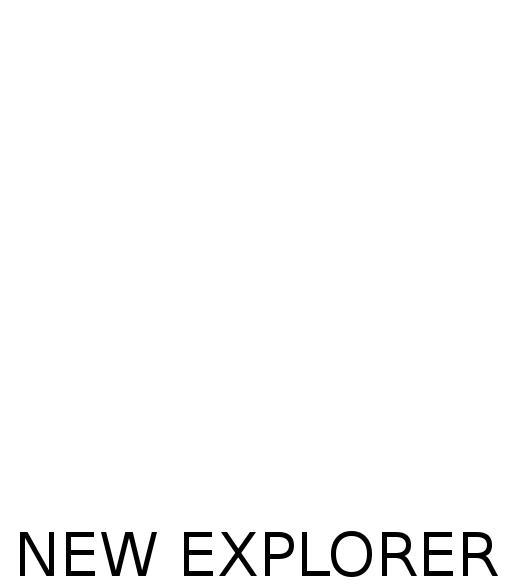
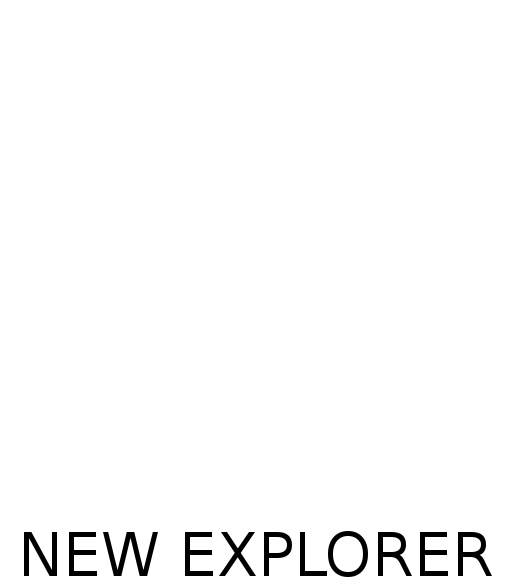
change to order of skins, cleared all owned skins, and added all new title skins

diff --git a/ZendApp/public/js/route/detail.js b/ZendApp/public/js/route/detail.js
@@ -735,7 +735,7 @@ var RecommendationManager = Class.extend({
      *
      * @author Craig Knott
      */
-    init:           function () {
+    init:            function () {
         this.button = $('#recommendSimilar');
         this.idSelected = undefined;
         this.setupListeners();
@@ -745,7 +745,7 @@ var RecommendationManager = Class.extend({
      *
      * @author Craig Knott
      */
-    setupListeners: function () {
+    setupListeners:  function () {
         var _self = this;
 
         this.button.click(function () {
@@ -757,28 +757,28 @@ var RecommendationManager = Class.extend({
                 }
             }).success(function (response) {
                 $.confirm({
-                    title:           'Recommend a Route',
-                    icon:            'fa fa-link',
-                    content:         _self.getPopupContent(JSON.parse(response)),
-                    theme:           'black',
-                    confirmButton:   'Confirm',
-                    cancelButton:    'Cancel',
-                    columnClass:     'col-xs-10 col-sm-10 col-md-10 col-lg-10',
-                    onOpen: function() {
+                    title:         'Recommend a Route',
+                    icon:          'fa fa-link',
+                    content:       _self.getPopupContent(JSON.parse(response)),
+                    theme:         'black',
+                    confirmButton: 'Confirm',
+                    cancelButton:  'Cancel',
+                    columnClass:   'col-xs-10 col-sm-10 col-md-10 col-lg-10',
+                    onOpen:        function () {
                         // Clear current id
                         _self.idSelected = undefined;
 
                         // Add listeners to the route selectors
                         var rRoutes = $('.rRoute');
-                        rRoutes.each(function(){
-                            $(this).click(function() {
+                        rRoutes.each(function () {
+                            $(this).click(function () {
                                 rRoutes.removeClass('selected');
                                 $(this).addClass('selected');
                                 _self.idSelected = $(this).attr('data-id');
                             })
                         });
                     },
-                    confirm: function() {
+                    confirm:       function () {
                         if (_self.idSelected !== undefined) {
                             // Add temp element to social stream
                             var tmp = $('<div>').addClass('streamElement recommend').append(
@@ -815,7 +815,7 @@ var RecommendationManager = Class.extend({
      *
      * @param data JSON data for recent/saved/owned routes
      */
-    getPopupContent: function(data) {
+    getPopupContent: function (data) {
         var text = 'Do you know a similar route you think other users would enjoy? Simply select below for your recently visited routes to suggest it!';
 
         var container = $('<div>').addClass('row');

diff --git a/ZendApp/application/models/SkinFactory.php b/ZendApp/application/models/SkinFactory.php
@@ -155,11 +155,11 @@ class SkinFactory extends ModelFactory {
                     fk_user_id,
                     equipped
                 ) VALUES
-                (1, :userId, 1),
-                (6, :userId, 0),
-                (7, :userId, 1),
-                (8, :userId, 1),
-                (9, :userId, 1)";
+                (1, :userId, 0),
+                (2, :userId, 1),
+                (3, :userId, 1),
+                (4, :userId, 1),
+                (5, :userId, 1)";
 
         $params = array(
             ':userId' => $userId
